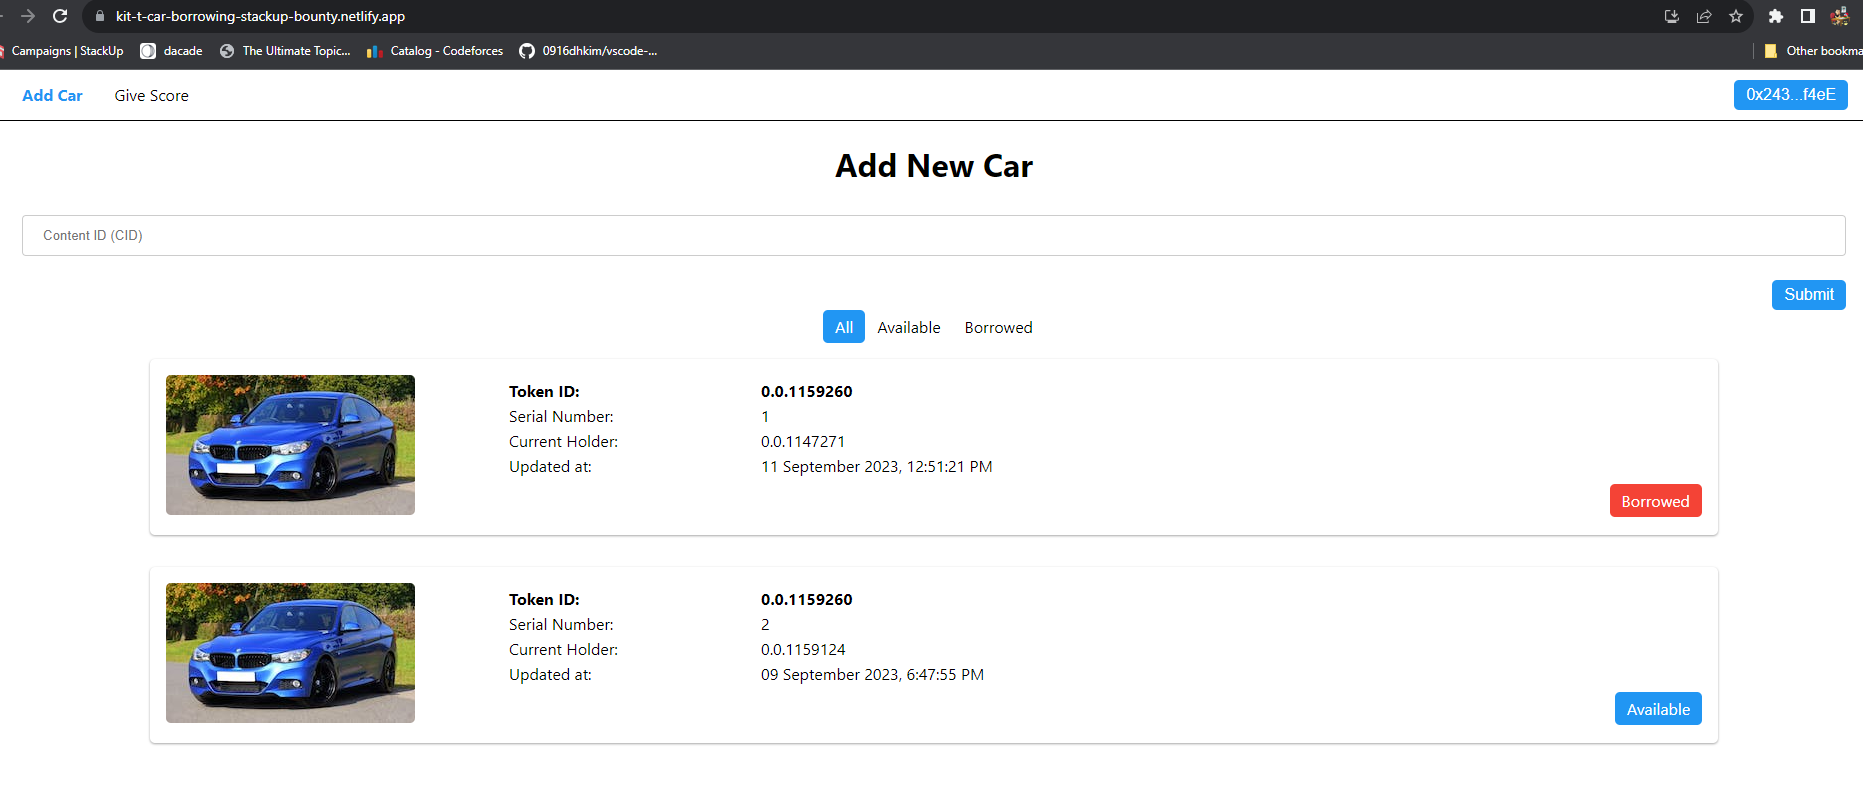
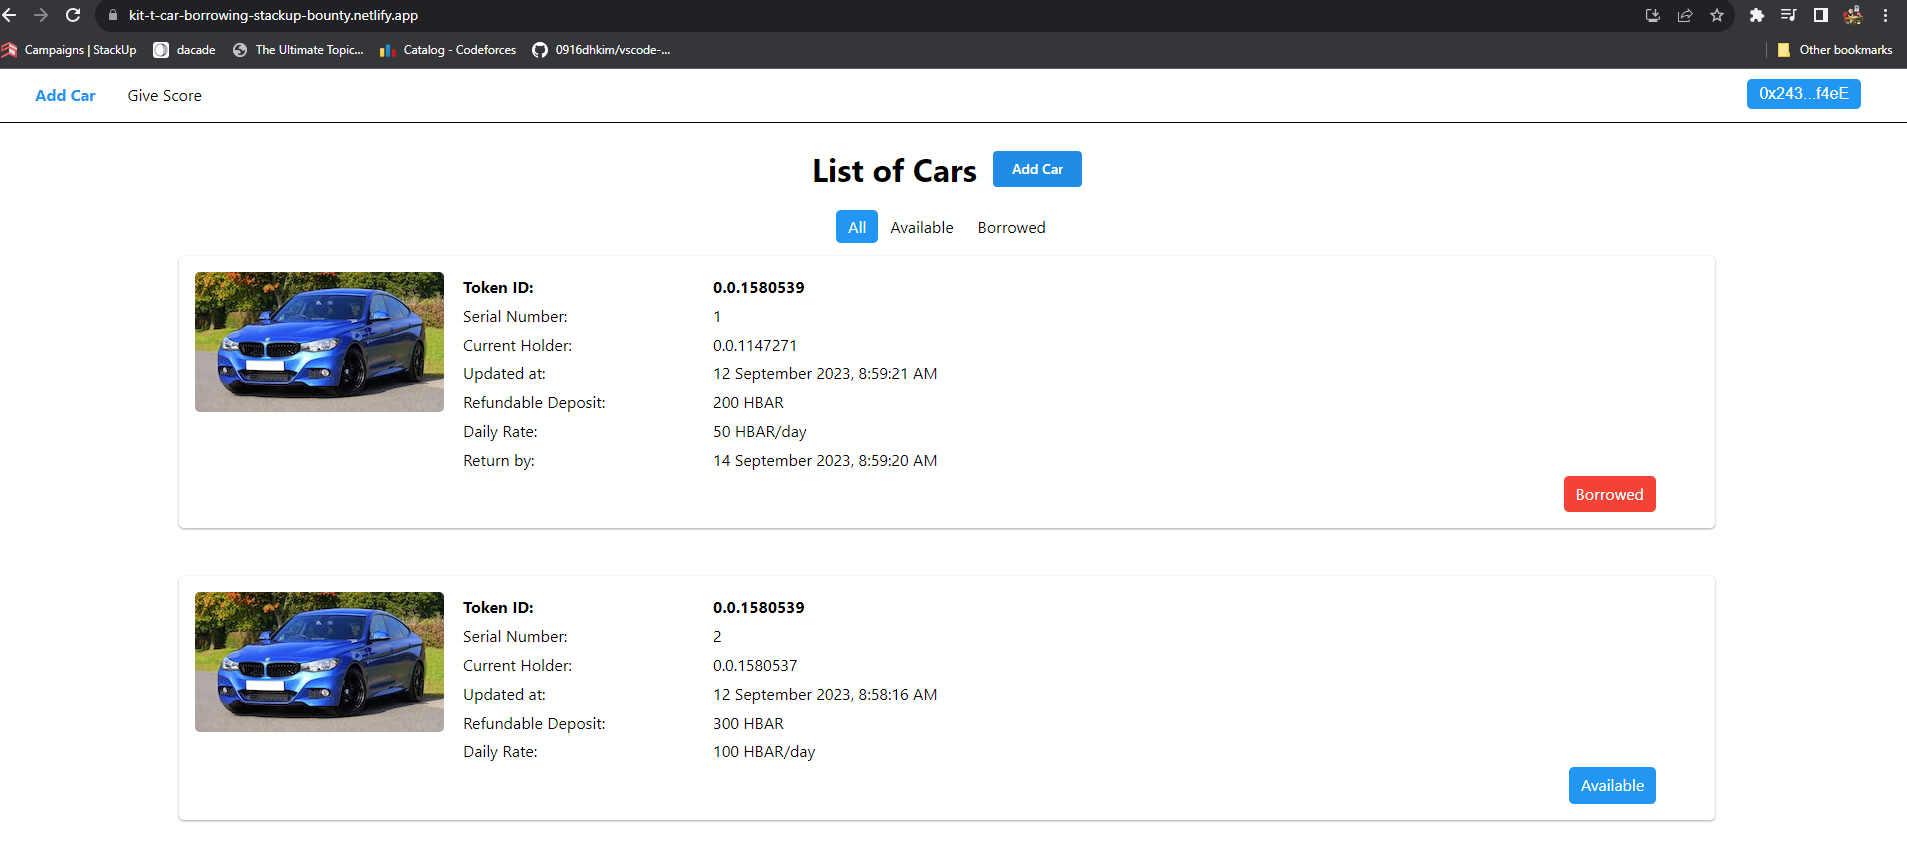
docs: update README

diff --git a/README.md b/README.md
@@ -9,9 +9,9 @@
   <p align="center">
     A full stack Car borrowing Dapp!
     <br />
-    <a href="kit-t-car-borrowing-stackup-bounty.netlify.app"><strong>View Demo</strong></a>
+    <a href="https://kit-t-car-borrowing-stackup-bounty.netlify.app"><strong>View Demo</strong></a>
     |
-    <a href="https://hashscan.io/testnet/contract/0.0.1159124"><strong>View Contract</strong></a>
+    <a href="https://hashscan.io/testnet/contract/0.0.1580537"><strong>View Contract</strong></a>
     <br />
   </p>
 </div>
@@ -23,6 +23,7 @@
       <a href="#about-the-project">About The Project</a>
       <ul>
         <li><a href="#functionalities">Functionalities</a></li>
+        <li><a href="#thought-process">Thought Process</a></li>
       </ul>
     </li>
     <li>
@@ -60,7 +61,23 @@ This is a submission for [StackUp's Hedera Capstone Project Expansion Bounty](ht
 
 - Merchant can see a list of cars added and filter them by status (Borrowed or Available). This is important for merchant to keep track of all the inventories and their availabilty.
 
-![Merchant Car List With Filters](docs/images/merchant-car-list-with-filters.png)
+![Merchant car list With filters](docs/images/merchant-car-list-with-filters.png)
+
+- Merchant can set custom refundable deposit and daily rate for each car added. This allows merchant to set appropriate rates for different model of cars and cater to customers with different budgets and needs.
+
+![Merchant add new car](docs/images/merchant-add-new-car.png)
+
+- Customer can choose how long to borrow a car for.
+
+![Customer choose duration of borrowing](docs/images/customer-choose-duration-of-borrowing.png)
+
+- Customer can see when to return the car by. This is essential so that they can return the car on time.
+
+![Customer see return by date](docs/images/customer-see-return-by-date.png)
+
+### Thought process
+
+I started tackling the bounty by braimstorming a list of possible features to add, then wrote down pseudo codes to implement them and estimated efforts needed. Afterwards, I prioritized features that can be implemented indepedently with smallest effort and add them incrementally to deliver the most value.
 
 ## Built With
 
@@ -100,7 +117,9 @@ git clone https://github.com/teyweikiet/stackup-car-borrowing-bounty.git
 
 #### Deploying Smart Contract & Creating Topics
 
-1. Refer instructions on [Hedera campaign quest 8](https://app.stackup.dev/quest_page/advanced-quest-8---car-borrowing-dapp-capstone-project-backend-1) to deploy smart contract
+1. Checkout latest version of contract deployed [here](./quest-8-backend/contracts/MerchantBackend.sol).
+
+2. Refer instructions on [Hedera campaign quest 8](https://app.stackup.dev/quest_page/advanced-quest-8---car-borrowing-dapp-capstone-project-backend-1) to deploy smart contract from Remix IDE
 
 
 #### Frontend
